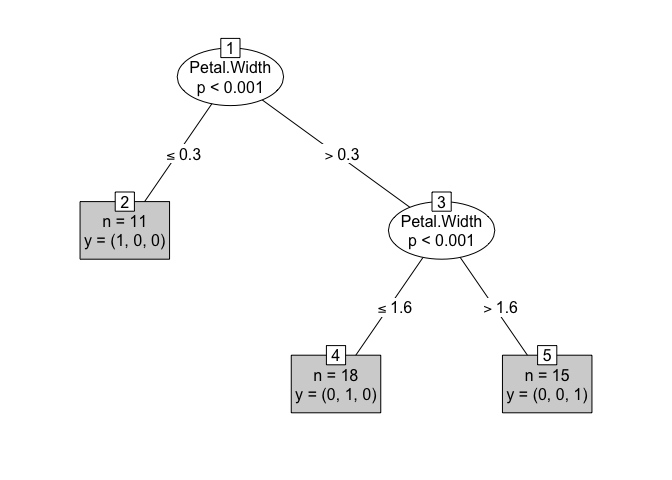
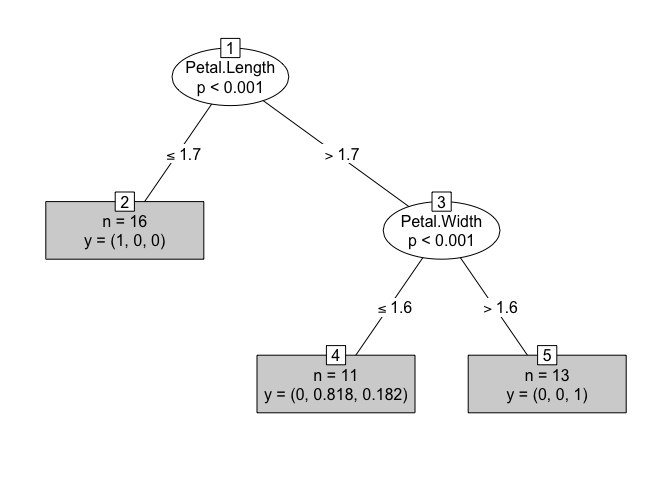
02/22/2021 4:13 AM

diff --git a/3_Data_Analysis_with_R/05_Structured_Data_Mining.md b/3_Data_Analysis_with_R/05_Structured_Data_Mining.md
@@ -29,7 +29,7 @@ Part 5: Structured Data Mining
       - 혼합 분포 군집 (mixture distribution clustering)
       - SOM (Self Organizing Map)
       - 최신 군집분석 기법들
-  - **Chapter 6 - 연관분석 (Association Rule)**
+  - **Chapter 6 - 연관분석 (Association Analysis)**
       - 연관규칙
       - 기존 연관성 분석의 이슈
       - 최근 연관성 분석 동향
@@ -55,7 +55,7 @@ Part 5: Structured Data Mining
       - 인공지능 (Artificial Intelligence)
       - 의사결정나무 (Decision Tree)
       - K-평균군집화 (K-means clustering)
-      - 연관분석 (Association Rule)
+      - 연관분석 (Association Analysis)
       - 회귀분석 (Regression)
       - 로짓분석 (Logit Analysis)
       - 최근접이웃 (Nearest Neighborhood)
@@ -122,7 +122,7 @@ Part 5: Structured Data Mining
             레코드의 결과값을 예측하는 것으로 목표 마케팅 및 고객 신용평가 모형에 활용됨
           - 회귀분석, 판별분석, 신경망, 의사결정나무
   - **설명 (Descriptive Modeling)**
-      - **연관 규칙 (Association Rule)**
+      - **연관 규칙 (Association Analysis)**
           - 데이터 안에 존재하는 항목간의 종속관계를 찾아내는 작업으로, 제품이나 서비스의 교차판매(Cross
             Selling), 매장진열(Display), 첨부우편(Attached Mailings), 사기적발(Fraud
             Detection) 등의 다양한 분야에 활용됨
@@ -509,7 +509,7 @@ ROC Curve
 
   - 기대 집단의 사람들 중 가장 많은 반응을 보일 **고객의 유치방안을 예측** 하고자 하는 경우에는 **예측력에 치중**
     한다
-  - 신용평가에서는 심사 결과 부적격 판정이 나온 경우 고객에게 부적격 **이류를 설명** 해야하므로 **해석력에 치중** 한다
+  - 신용평가에서는 심사 결과 부적격 판정이 나온 경우 고객에게 부적격 **이유를 설명** 해야하므로 **해석력에 치중** 한다
 
 #### 다. 의사결정나무의 활용
 
@@ -705,9 +705,9 @@ table(predict(iris.tree), train.data$Species)
 
     ##             
     ##              setosa versicolor virginica
-    ##   setosa         11          0         0
-    ##   versicolor      0         18         0
-    ##   virginica       0          0        15
+    ##   setosa         16          0         0
+    ##   versicolor      0          9         2
+    ##   virginica       0          0        13
 
   - **\[4\] test data 를 적용하여 정확성 확인**
 
@@ -720,9 +720,9 @@ table(test.pre, test.data$Species)
 
     ##             
     ## test.pre     setosa versicolor virginica
-    ##   setosa         30          0         0
-    ##   versicolor      9         30         4
-    ##   virginica       0          2        31
+    ##   setosa         32          0         0
+    ##   versicolor      2         39         2
+    ##   virginica       0          2        33
 
 # Chapter 3 - 앙상블 분석 (Ensemble Analysis)
 
@@ -738,7 +738,7 @@ table(test.pre, test.data$Species)
 #### 나. 학습방법의 불안정성
 
   - 학습자료의 작은 변화에 의해 예측모형이 크게 변하는 경우, 그 학습방법은 불안정하다
-  - 가장 안정적인 방법으로는 1-nearest neighbor(가장 가까운 자료만 변하지 않으면 예측 모형이 변하지 않음),
+  - 가장 안정적인 방법으로는 k-nearest neighbor(가장 가까운 자료만 변하지 않으면 예측 모형이 변하지 않음),
     선형회귀무형(최소제곱법으로 추정해 모형 결정)이 존재한다
   - 가장 불안정한 방법으로는 의사결정나무가 있다
 
@@ -806,9 +806,9 @@ table(predict(r.f), train.data$Species)
 
     ##             
     ##              setosa versicolor virginica
-    ##   setosa         16          0         0
-    ##   versicolor      0         16         0
-    ##   virginica       0          0        13
+    ##   setosa         14          0         0
+    ##   versicolor      0         12         1
+    ##   virginica       0          1        16
 
     - 그래프 그리기 1
 
@@ -833,9 +833,9 @@ table(pre.rf, test.data$Species)
 
     ##             
     ## pre.rf       setosa versicolor virginica
-    ##   setosa         34          0         0
-    ##   versicolor      0         33         5
-    ##   virginica       0          1        32
+    ##   setosa         36          0         0
+    ##   versicolor      0         34         1
+    ##   virginica       0          3        32
 
     - 그래프 그리기 3
 
@@ -1191,8 +1191,9 @@ n개의 개체를 g개의 군집으로 나눌 수 있는 모든 가능한 방법
     사용될 수 있다
   - E-단계: 잠재변수 Z의 기대치 계산
   - M-단계: 잠재변수 Z의 기대치를 이용하여 파라미터를 추정
-  - E-step(임의의 파라미터 값을 정함 -\> Z 기대치 계산) -\> M-step(Z의 기대치를 이용하여 파라미터 추정
-    -\> Likelihood가 최대화인가?) -\> 파라미터 추정값 도출
+      - \[1\] E-step(임의의 파라미터 값을 정함 -\> Z 기대치 계산)
+      - \[2\] M-step(Z의 기대치를 이용하여 파라미터 추정 -\> Likelihood가 최대화인가?)
+      - \[3\] 파라미터 추정값 도출
 
 #### 라. EM 알고리즘의 진행 과정
 
@@ -1305,9 +1306,9 @@ table(iris$Species, kc$cluster)
 
     ##             
     ##               1  2  3
-    ##   setosa      0 50  0
-    ##   versicolor  2  0 48
-    ##   virginica  36  0 14
+    ##   setosa     50  0  0
+    ##   versicolor  0  2 48
+    ##   virginica   0 36 14
 
   - 다) 군집화 그래프
 
@@ -1319,7 +1320,7 @@ plot(newiris[c("Sepal.Length", "Sepal.Width")], col = kc$cluster)
 
 ![](05_Structured_Data_Mining_files/figure-gfm/unnamed-chunk-17-1.png)<!-- -->
 
-# Chapter 6 - 연관분석 (Association Rule)
+# Chapter 6 - 연관분석 (Association Analysis)
 
 ## 1\. 연관규칙
 
